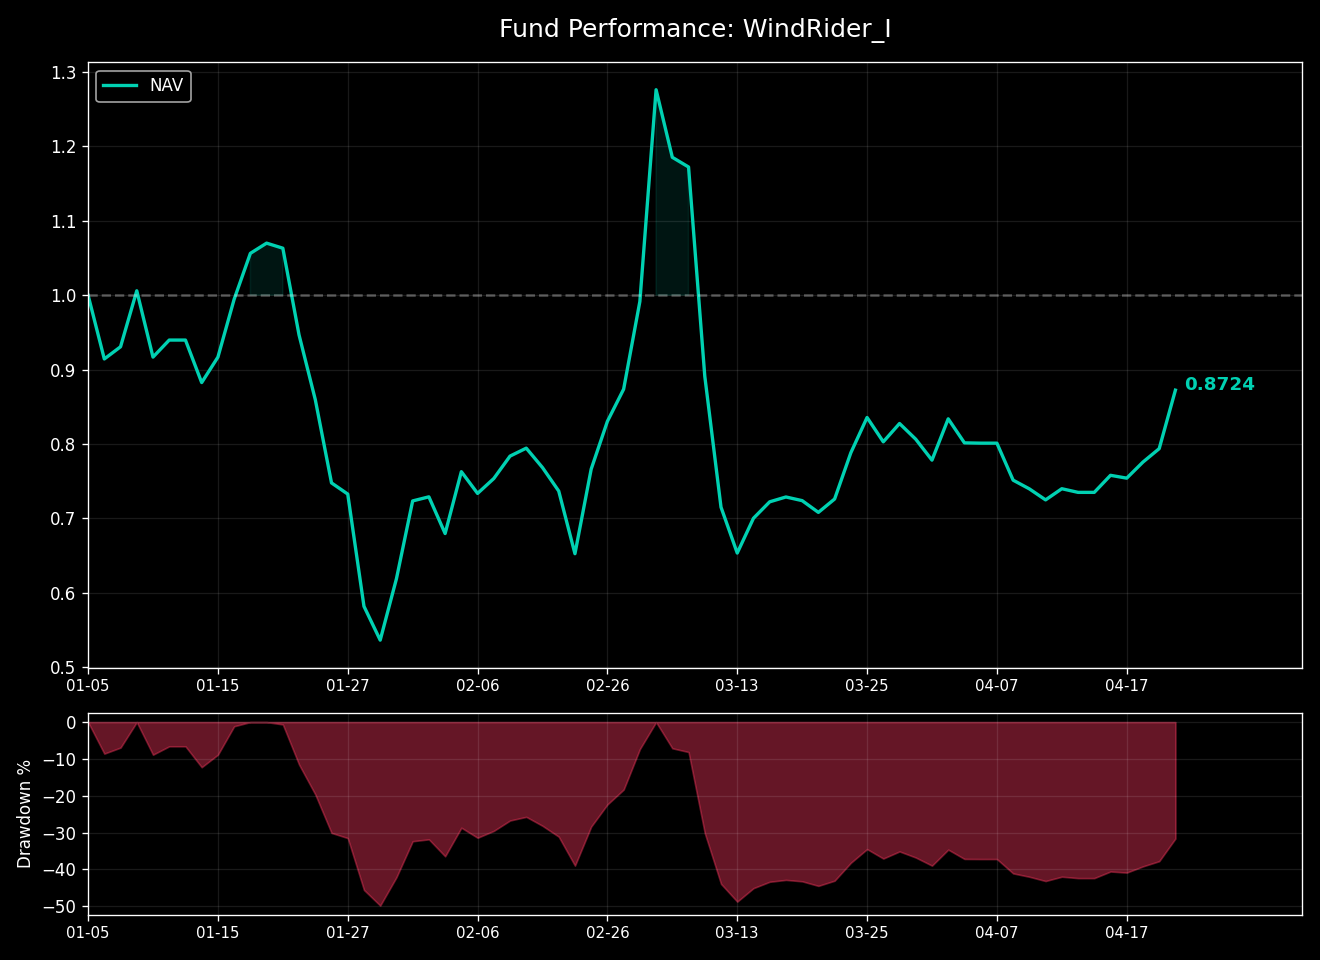
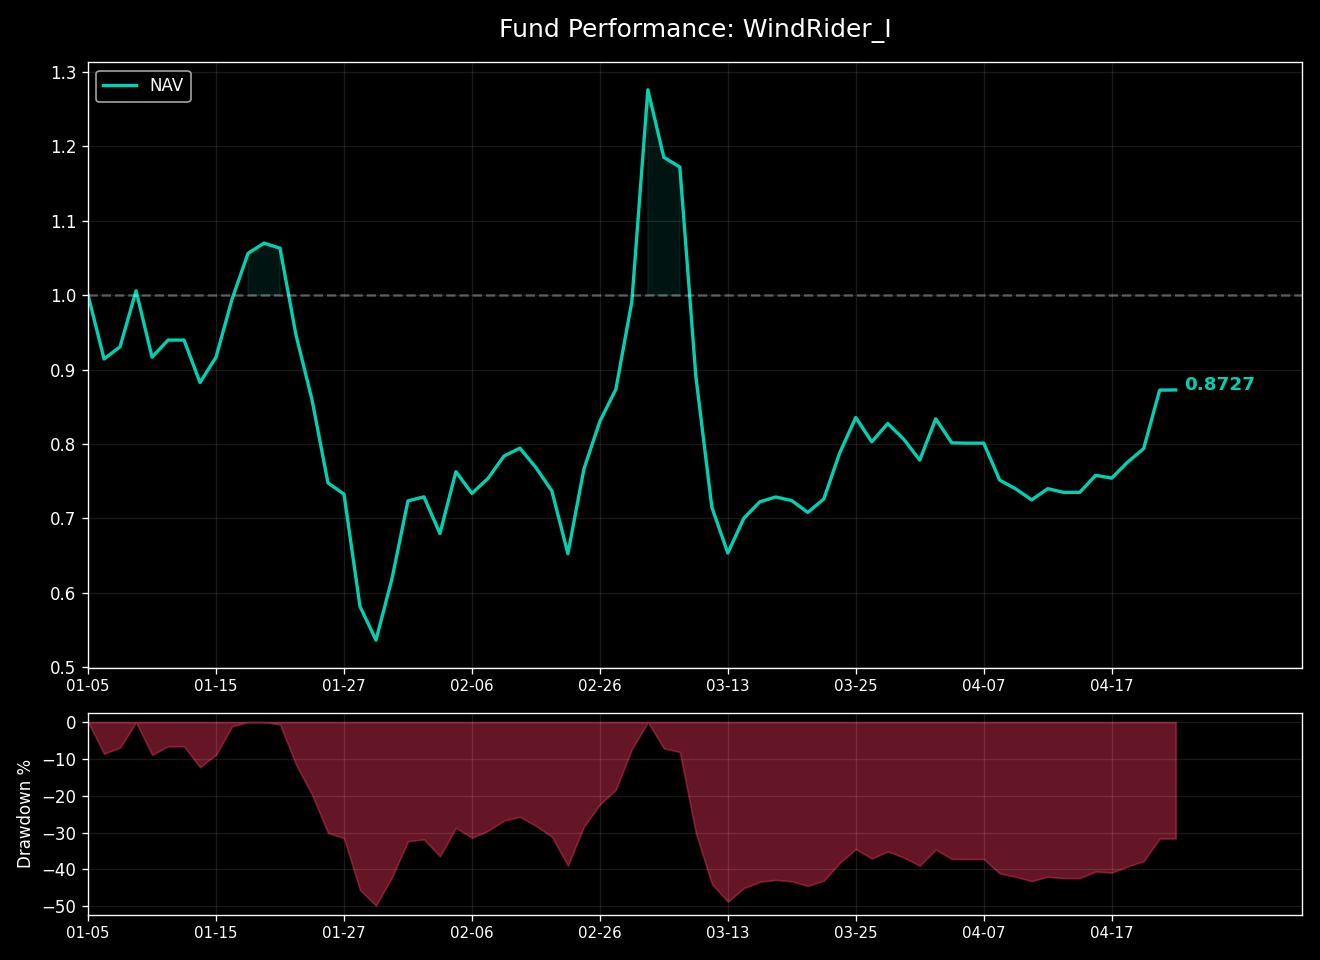
Updated Hugo site content

diff --git a/content/investment/windrider-1.md b/content/investment/windrider-1.md
@@ -1,8 +1,8 @@
 +++
 title = "风舵1号 (WindRider I)  /// 指数"
 summary = "商品期货分形摆动策略，实盘最新净值与核心风险指标。"
-date = 2026-04-22T15:15:03+08:00
-lastmod = 2026-04-22T15:15:03+08:00
+date = 2026-04-23T15:15:04+08:00
+lastmod = 2026-04-23T15:15:04+08:00
 draft = false
 description = "商品期货分形摆动策略实盘"
 +++
@@ -15,24 +15,24 @@ description = "商品期货分形摆动策略实盘"
 
 ### 风舵1号 (WindRider I) &nbsp;&nbsp;<span style="color: #E63946; font-weight: bold;">/</span><span style="color: #F1A73E; font-weight: bold;">/</span><span style="color: #000091; font-weight: bold;">/</span>&nbsp;&nbsp; 指数
 商品期货分形摆动策略实盘<br>
-净值简报 <small>(截至: 2026-04-22)</small>
+净值简报 <small>(截至: 2026-04-23)</small>
 
 |  |  |
 | :--- | :--- |
 | **指数代码：** | WDR1.CTA |
 | **起步日期：** | 2026-01-05 |
-| **最新净值：** | 0.8724 |
-| **今日涨跌：** | +9.90% |
+| **最新净值：** | 0.8727 |
+| **今日涨跌：** | +0.03% |
 
 ===========================
 
 | 核心指标 | |
 | :--- | :--- |
-| **累计涨跌：** | -12.76% |
-| **年化收益：** | -37.23% |
+| **累计涨跌：** | -12.73% |
+| **年化收益：** | -36.88% |
 | **最大回撤：** | -49.85% |
-| **卡玛比率：** | -0.75 |
-| **策略状态：** | 已运行 108 天 |
+| **卡玛比率：** | -0.74 |
+| **策略状态：** | 已运行 109 天 |
 
 ### 净值曲线
 ![风舵1号净值曲线](/images/investment/windrider_nav.png)
